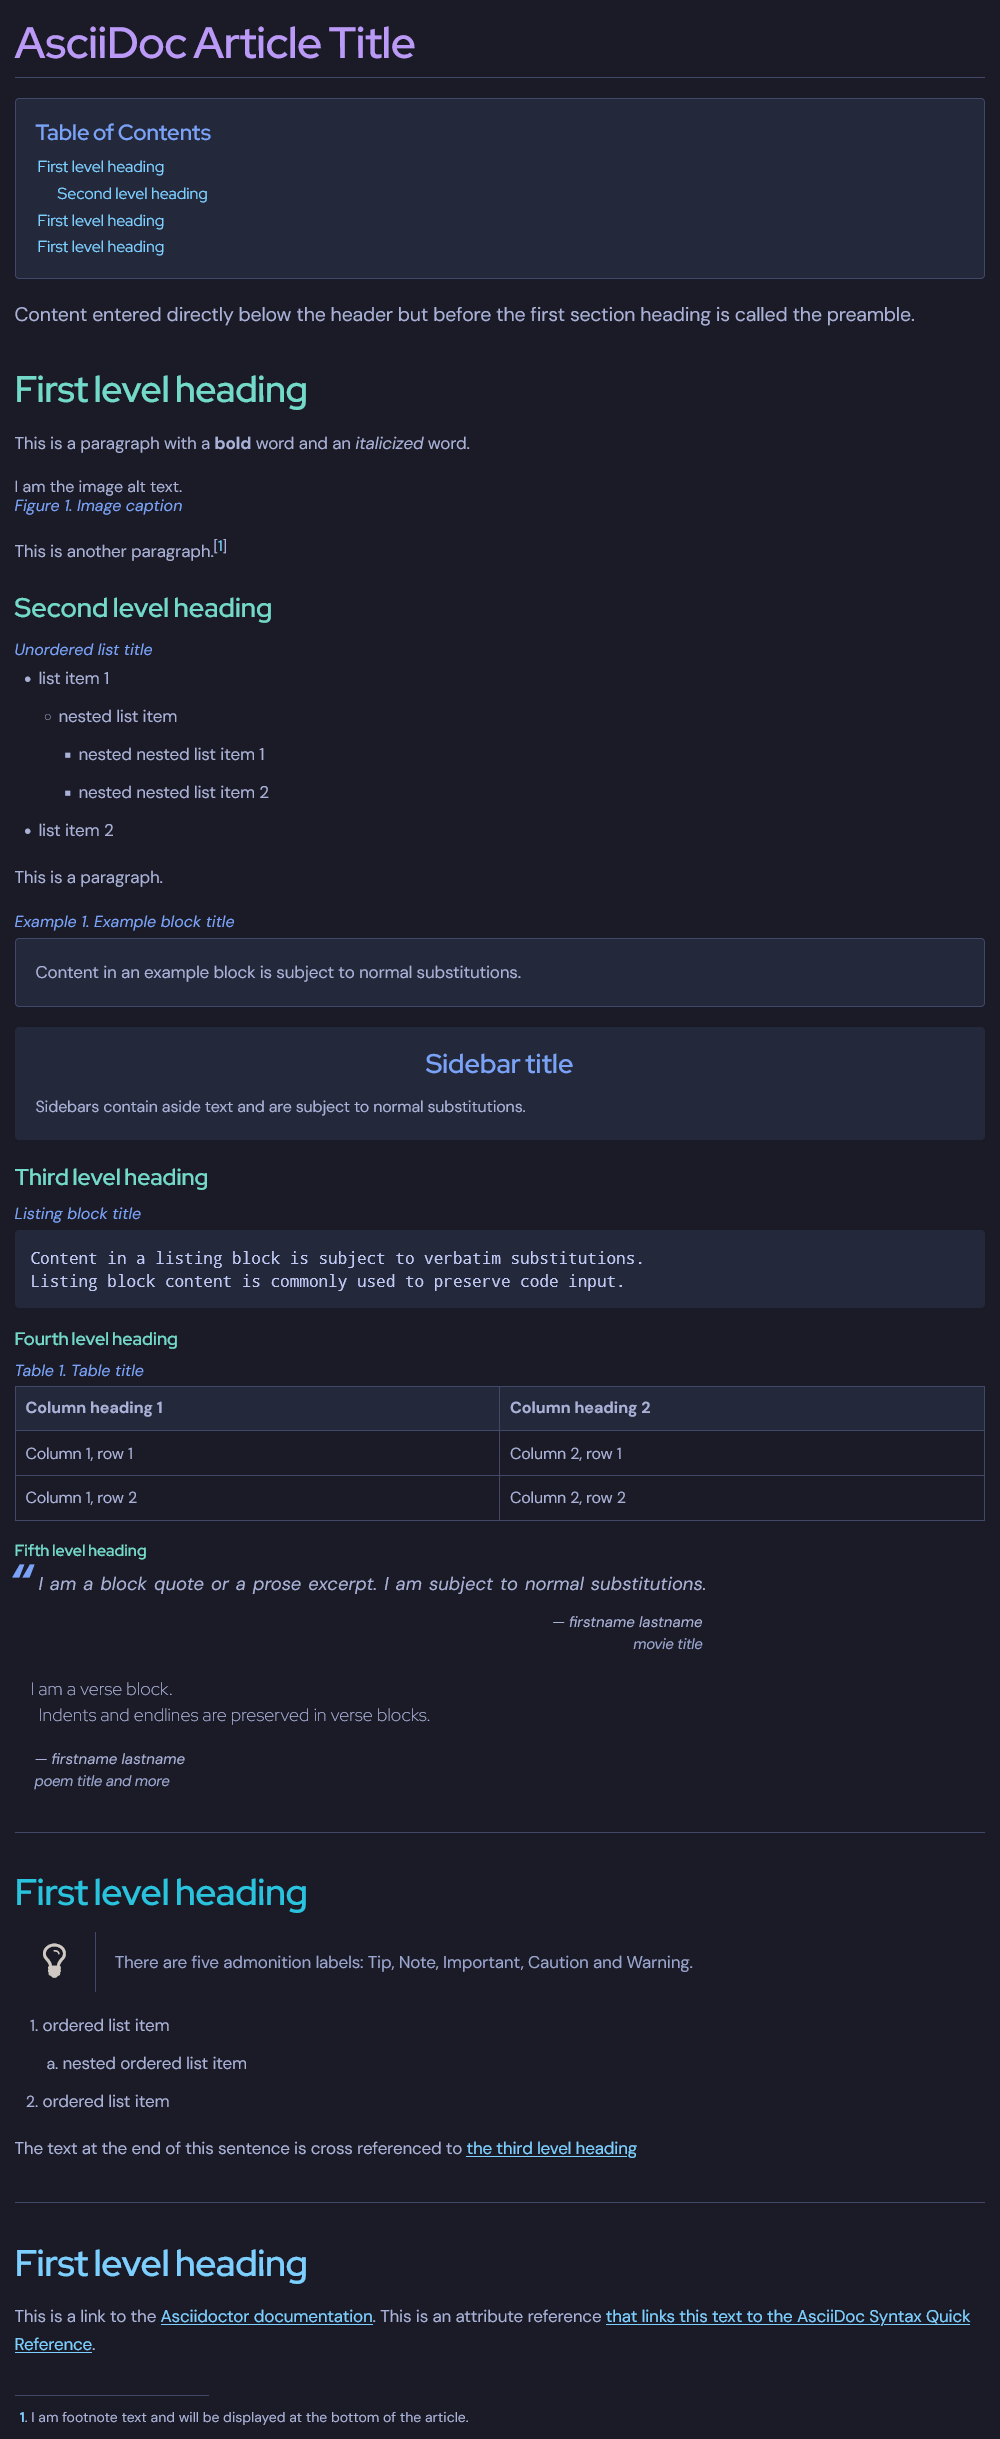
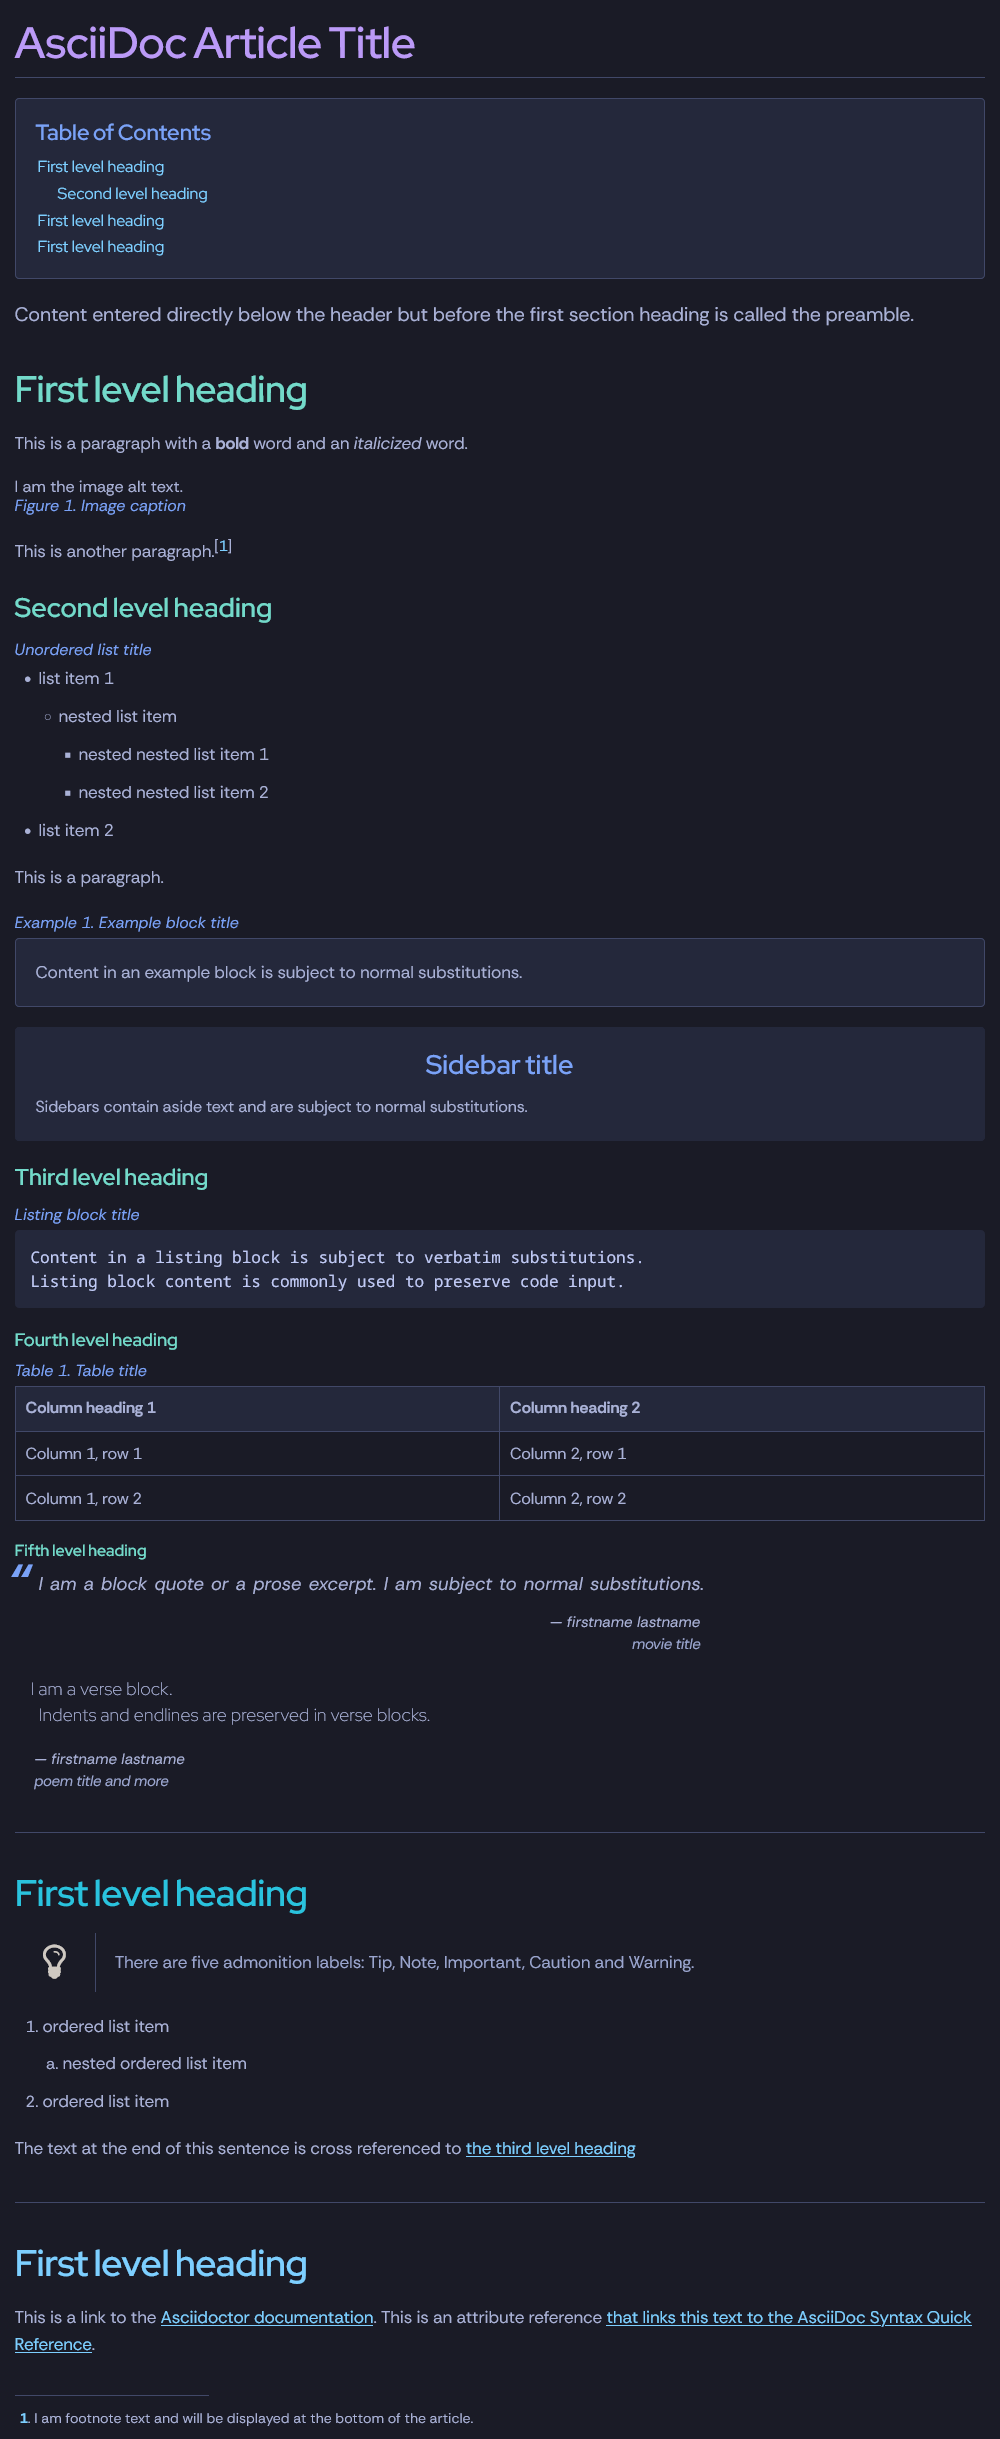
font changes

diff --git a/TokyoNight.css b/TokyoNight.css
@@ -1,7 +1,7 @@
 /*! Asciidoctor default stylesheet | MIT License | https://asciidoctor.org */
 /* Uncomment the following line when using as a custom stylesheet */
 /* @import "https://fonts.googleapis.com/css?family=Open+Sans:300,300italic,400,400italic,600,600italic%7CNoto+Serif:400,400italic,700,700italic%7CDroid+Sans+Mono:400,700"; */
-@import "https://fonts.googleapis.com/css?family=Red+Hat+Display:300,300italic,400,400italic,600,600italic%7CDM+Sans:400,400italic,700,700italic%7CDroid+Sans+Mono:400,700";
+@import url('https://fonts.googleapis.com/css2?family=Noto+Sans+Mono:wght@400;700&family=Red+Hat+Display:ital,wght@0,300;0,400;0,600;1,300;1,400;1,600&family=Rethink+Sans:ital,wght@0,400;0,700;1,400;1,700&display=swap');
 html {
   font-family: sans-serif;
   -webkit-text-size-adjust: 100%;
@@ -192,7 +192,7 @@ body {
   color: #a9b1d6;
   padding: 0;
   margin: 0;
-  font-family: "DM Sans", "DejaVu Serif", serif;
+  font-family: "Rethink Sans", "DejaVu Serif", serif;
   line-height: 1;
   position: relative;
   cursor: auto;
@@ -460,7 +460,7 @@ small {
 }
 
 code {
-  font-family: "Droid Sans Mono", "DejaVu Sans Mono", monospace;
+  font-family: "Noto Sans Mono", "DejaVu Sans Mono", monospace;
   font-weight: 400;
   color: #c0caf5;
 }
@@ -675,7 +675,7 @@ h6 strong {
 
 pre {
   color: #c0caf5;
-  font-family: "Droid Sans Mono", "DejaVu Sans Mono", monospace;
+  font-family: "Noto Sans Mono", "DejaVu Sans Mono", monospace;
   line-height: 1.45;
   text-rendering: optimizeSpeed;
 }
@@ -710,7 +710,7 @@ strong strong {
 }
 
 kbd {
-  font-family: "Droid Sans Mono", "DejaVu Sans Mono", monospace;
+  font-family: "Noto Sans Mono", "DejaVu Sans Mono", monospace;
   display: inline-block;
   color: #a9b1d6;
   font-size: 0.65em;
@@ -1227,7 +1227,7 @@ table.tableblock > .title,
 .hdlist > .title {
   text-rendering: optimizeLegibility;
   text-align: left;
-  font-family: "DM Sans", "DejaVu Serif", serif;
+  font-family: "Rethink Sans", "DejaVu Serif", serif;
   font-size: 1rem;
   font-style: italic;
 }
